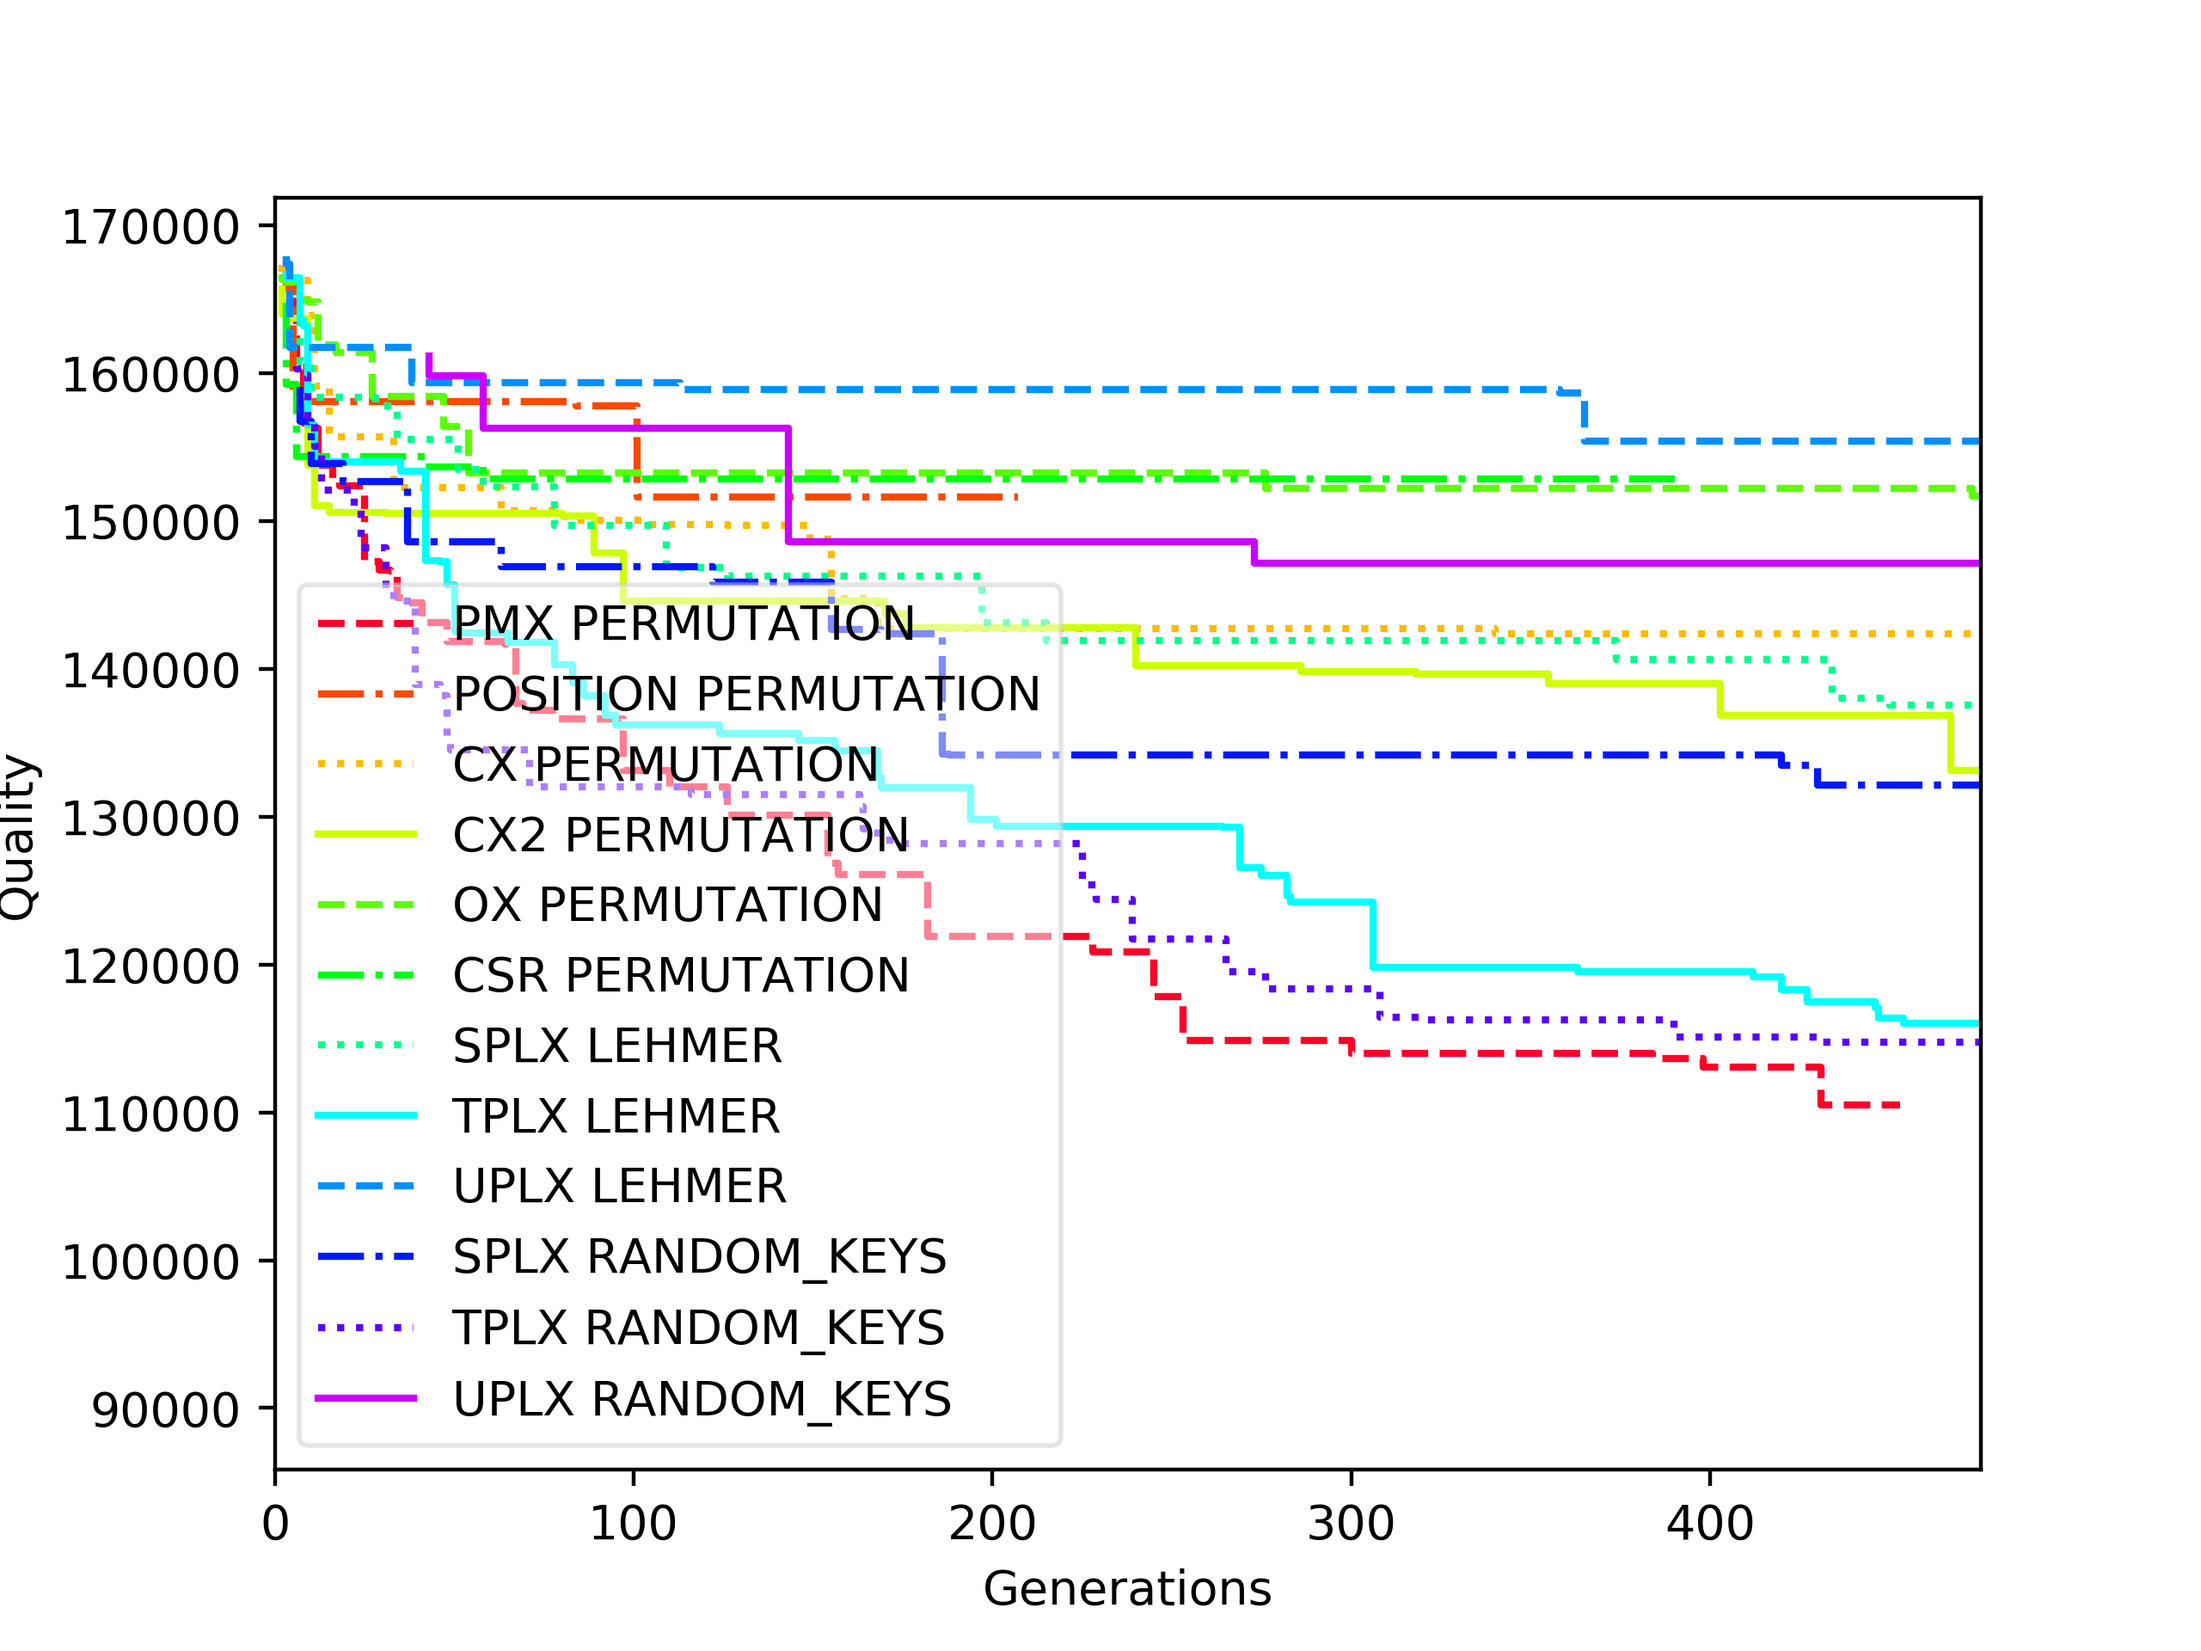
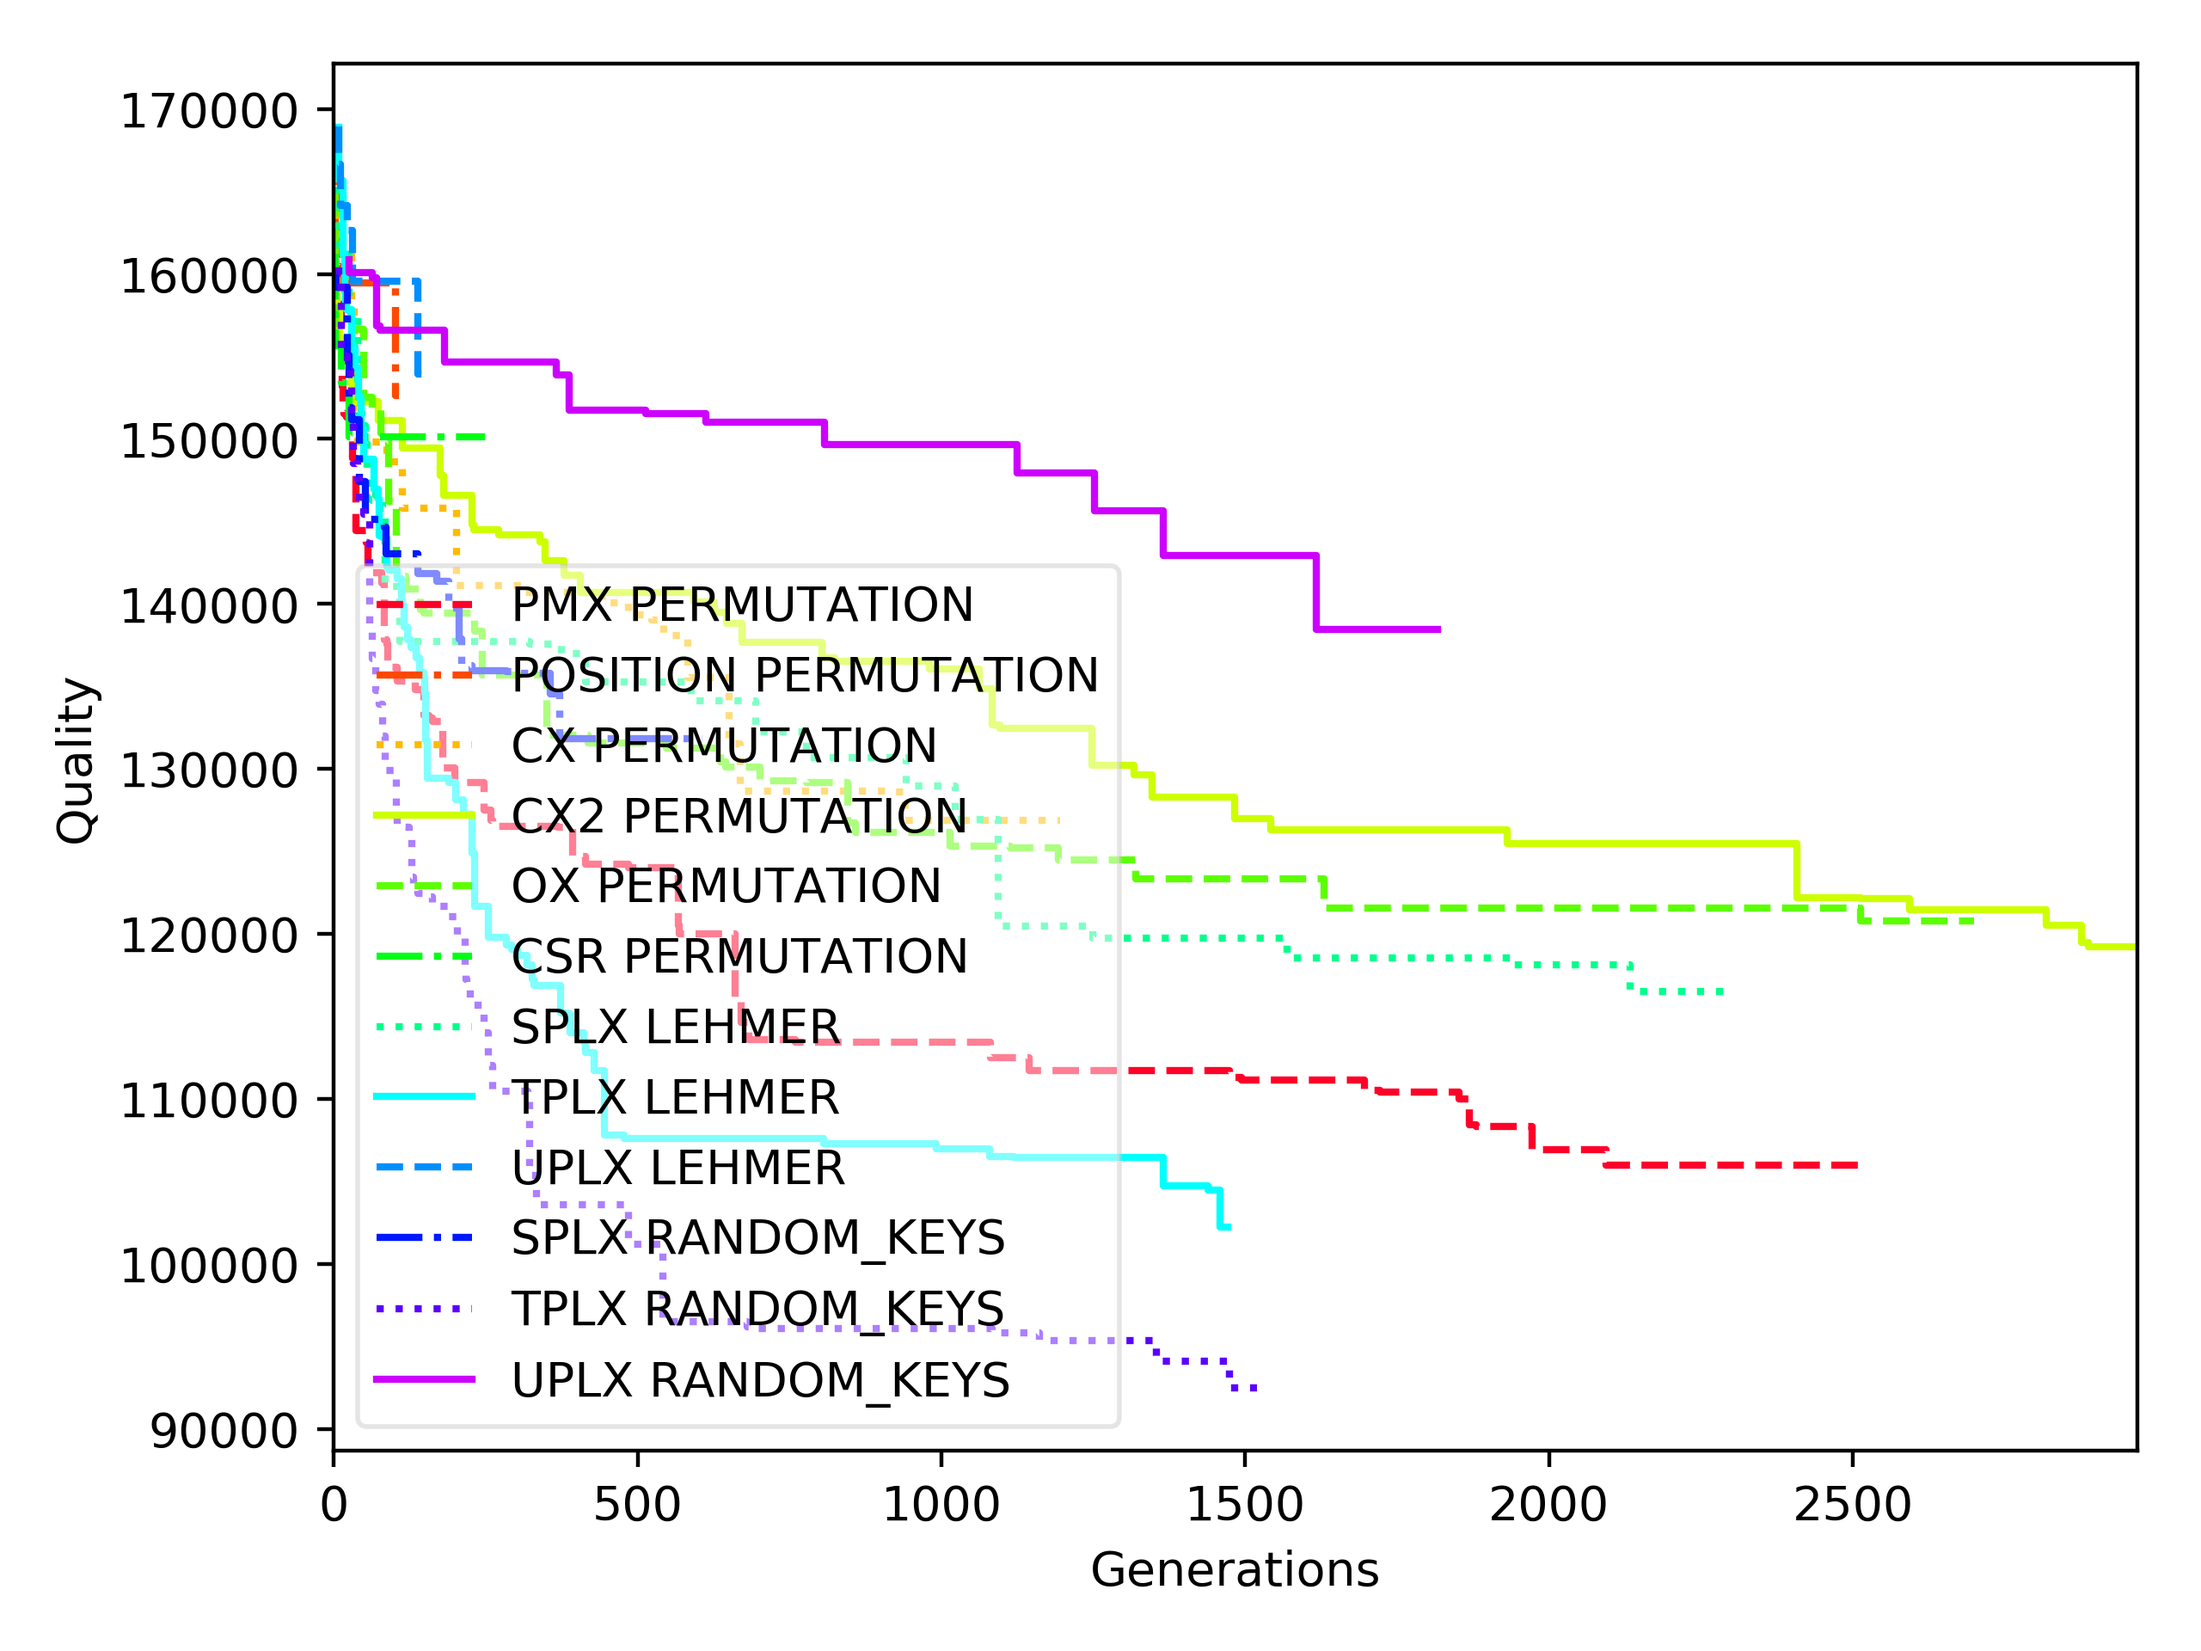
Fix to the quality vs generation graphs
- Fixed the graphing so that it found the largest X-axis for the plot.

diff --git a/GA_lapagos/EXPERIMENTS/TSP_ENCODING_XOVERS_MARCH30_2020/create_ga_line_graph_of_quality_vs_time.py b/GA_lapagos/EXPERIMENTS/TSP_ENCODING_XOVERS_MARCH30_2020/create_ga_line_graph_of_quality_vs_time.py
@@ -45,6 +45,7 @@ file_list = glob.glob('*'+sys.argv[2].rstrip()+'*')
 
 print (file_list)
 
+current_x = 0;
 count = 0
 # read through the file and create a data frame for each benchmark
 for log_file in file_list:
@@ -63,6 +64,13 @@ for log_file in file_list:
             frame.loc[frame['1'].str.contains('generation')]['6'],
             linestyle=line_style[count % 4])
     ax.set_xlim(0)
+    p = frame.loc[frame['1'].str.contains('generation')]['2'];
+
+    # adjust for the biggest x value
+    # -2 since there is a Generation term in their that is the exit
+    if (p.iloc[-2] > current_x):
+        current_x = p.iloc[-2]
+        ax.set_xbound(0,current_x)
 
 if bench_name == '0':
     plt.legend(list_legend, loc='lower left', framealpha=0.5)
